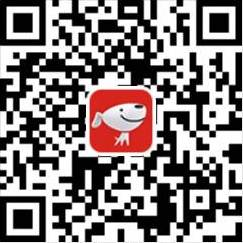
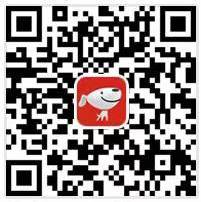
update

diff --git a/docs/README.md b/docs/README.md
@@ -22,7 +22,7 @@
 
 <img src="https://github.com/datawhalechina/leedl-tutorial/blob/master/assets/apple.png?raw=true" width="300">
 
-购买链接：[京东](https://u.jd.com/muCV8tI) | [当当](https://product.dangdang.com/29766946.html)
+购买链接：[京东](https://u.jd.com/muCV8tI) 
 
 <table border="0">
   <tbody>
@@ -32,13 +32,10 @@
         <br>
         <p>京东扫码购买</p>
       </td>
-      <td>
-    <img width="120" height="120" src="https://github.com/datawhalechina/leedl-tutorial/blob/master/assets/apple_dangdang_QR.jpg" alt="pic"><br>
-        <p>当当扫码购买</p>
-      </td>
     </tr>
   </tbody>
 </table>
+
 
 
 豆瓣评分：https://book.douban.com/subject/36997460/
